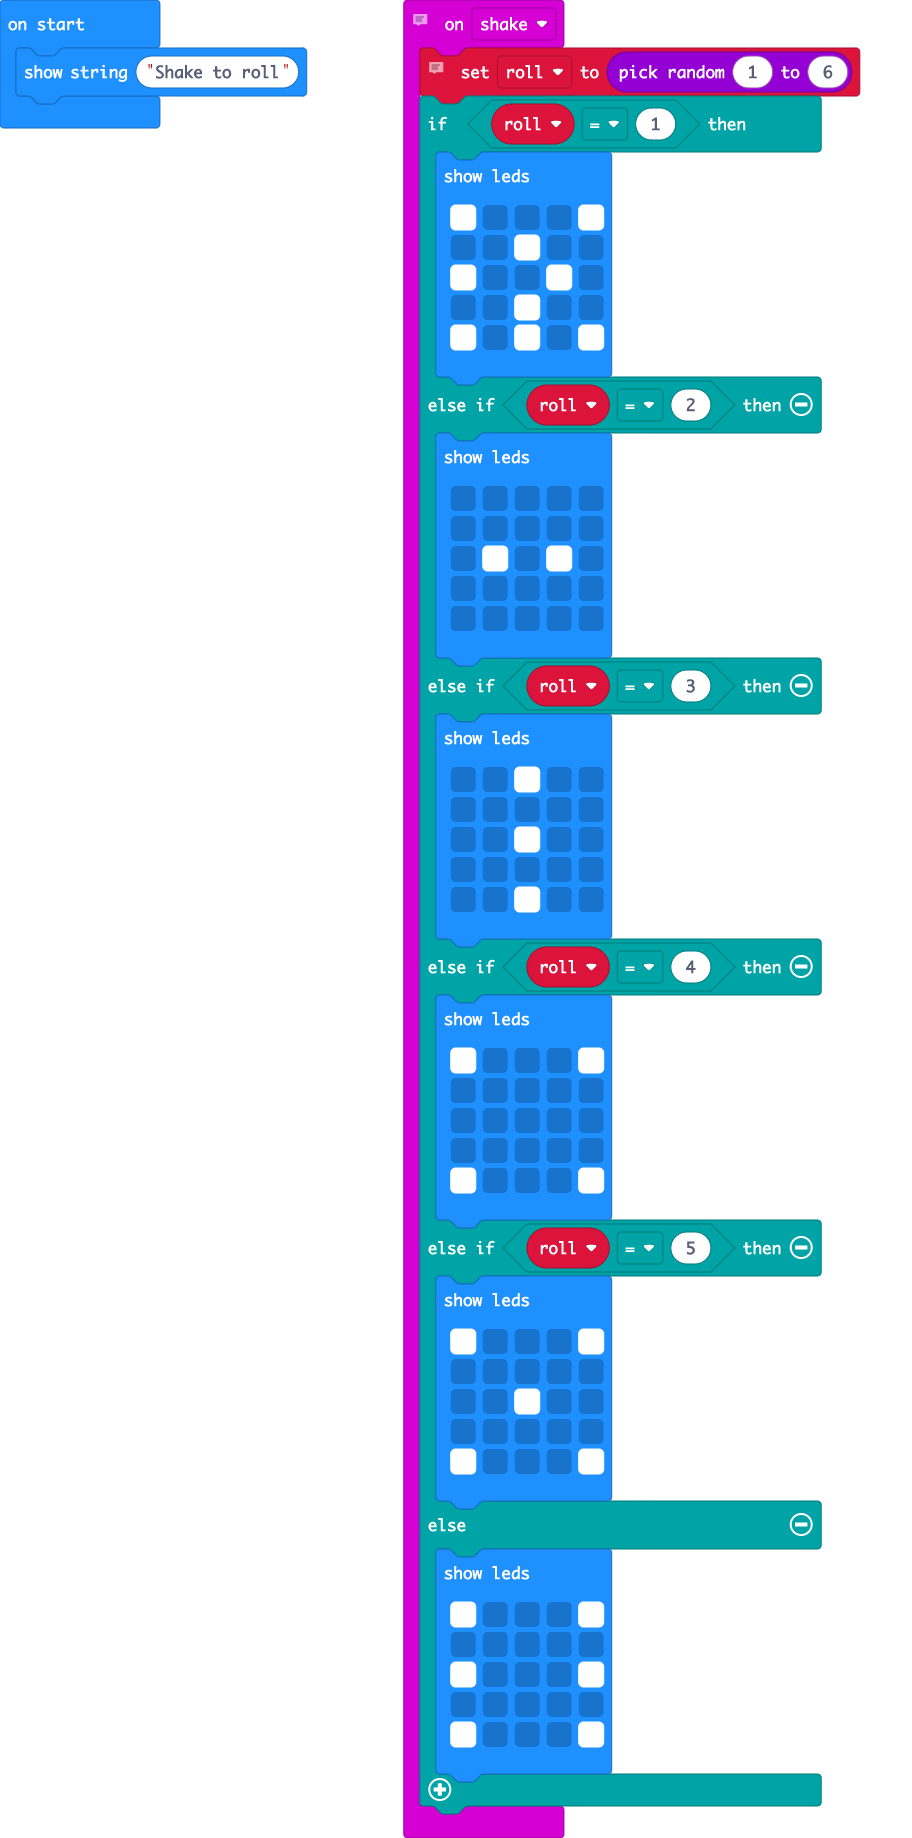
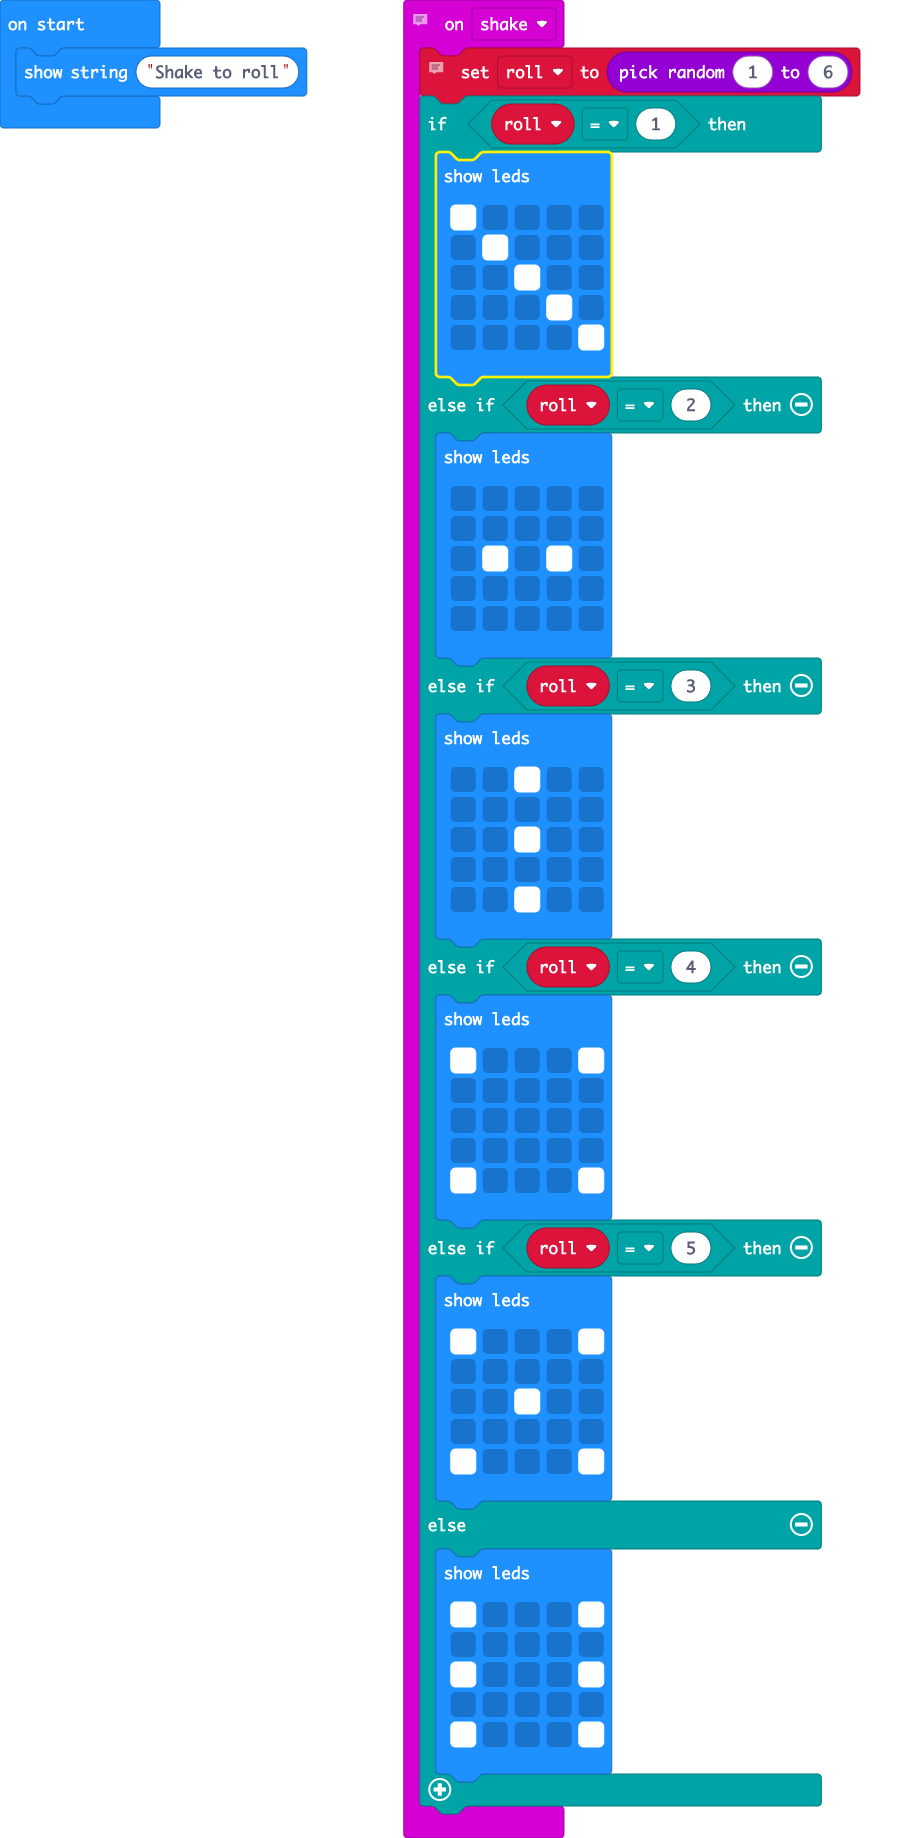
Update main.blocks, main.ts

Changed region(s): [[0.4605, 0.062, 0.6754, 0.2171]]

diff --git a/main.ts b/main.ts
@@ -6,11 +6,11 @@ input.onGesture(Gesture.Shake, function () {
     roll = randint(1, 6)
     if (roll == 1) {
         basic.showLeds(`
-            . . . . .
-            . . . . .
-            . . . . .
-            . . . . .
-            . . . . .
+            # . . . .
+            . # . . .
+            . . # . .
+            . . . # .
+            . . . . #
             `)
     } else if (roll == 2) {
         basic.showLeds(`
